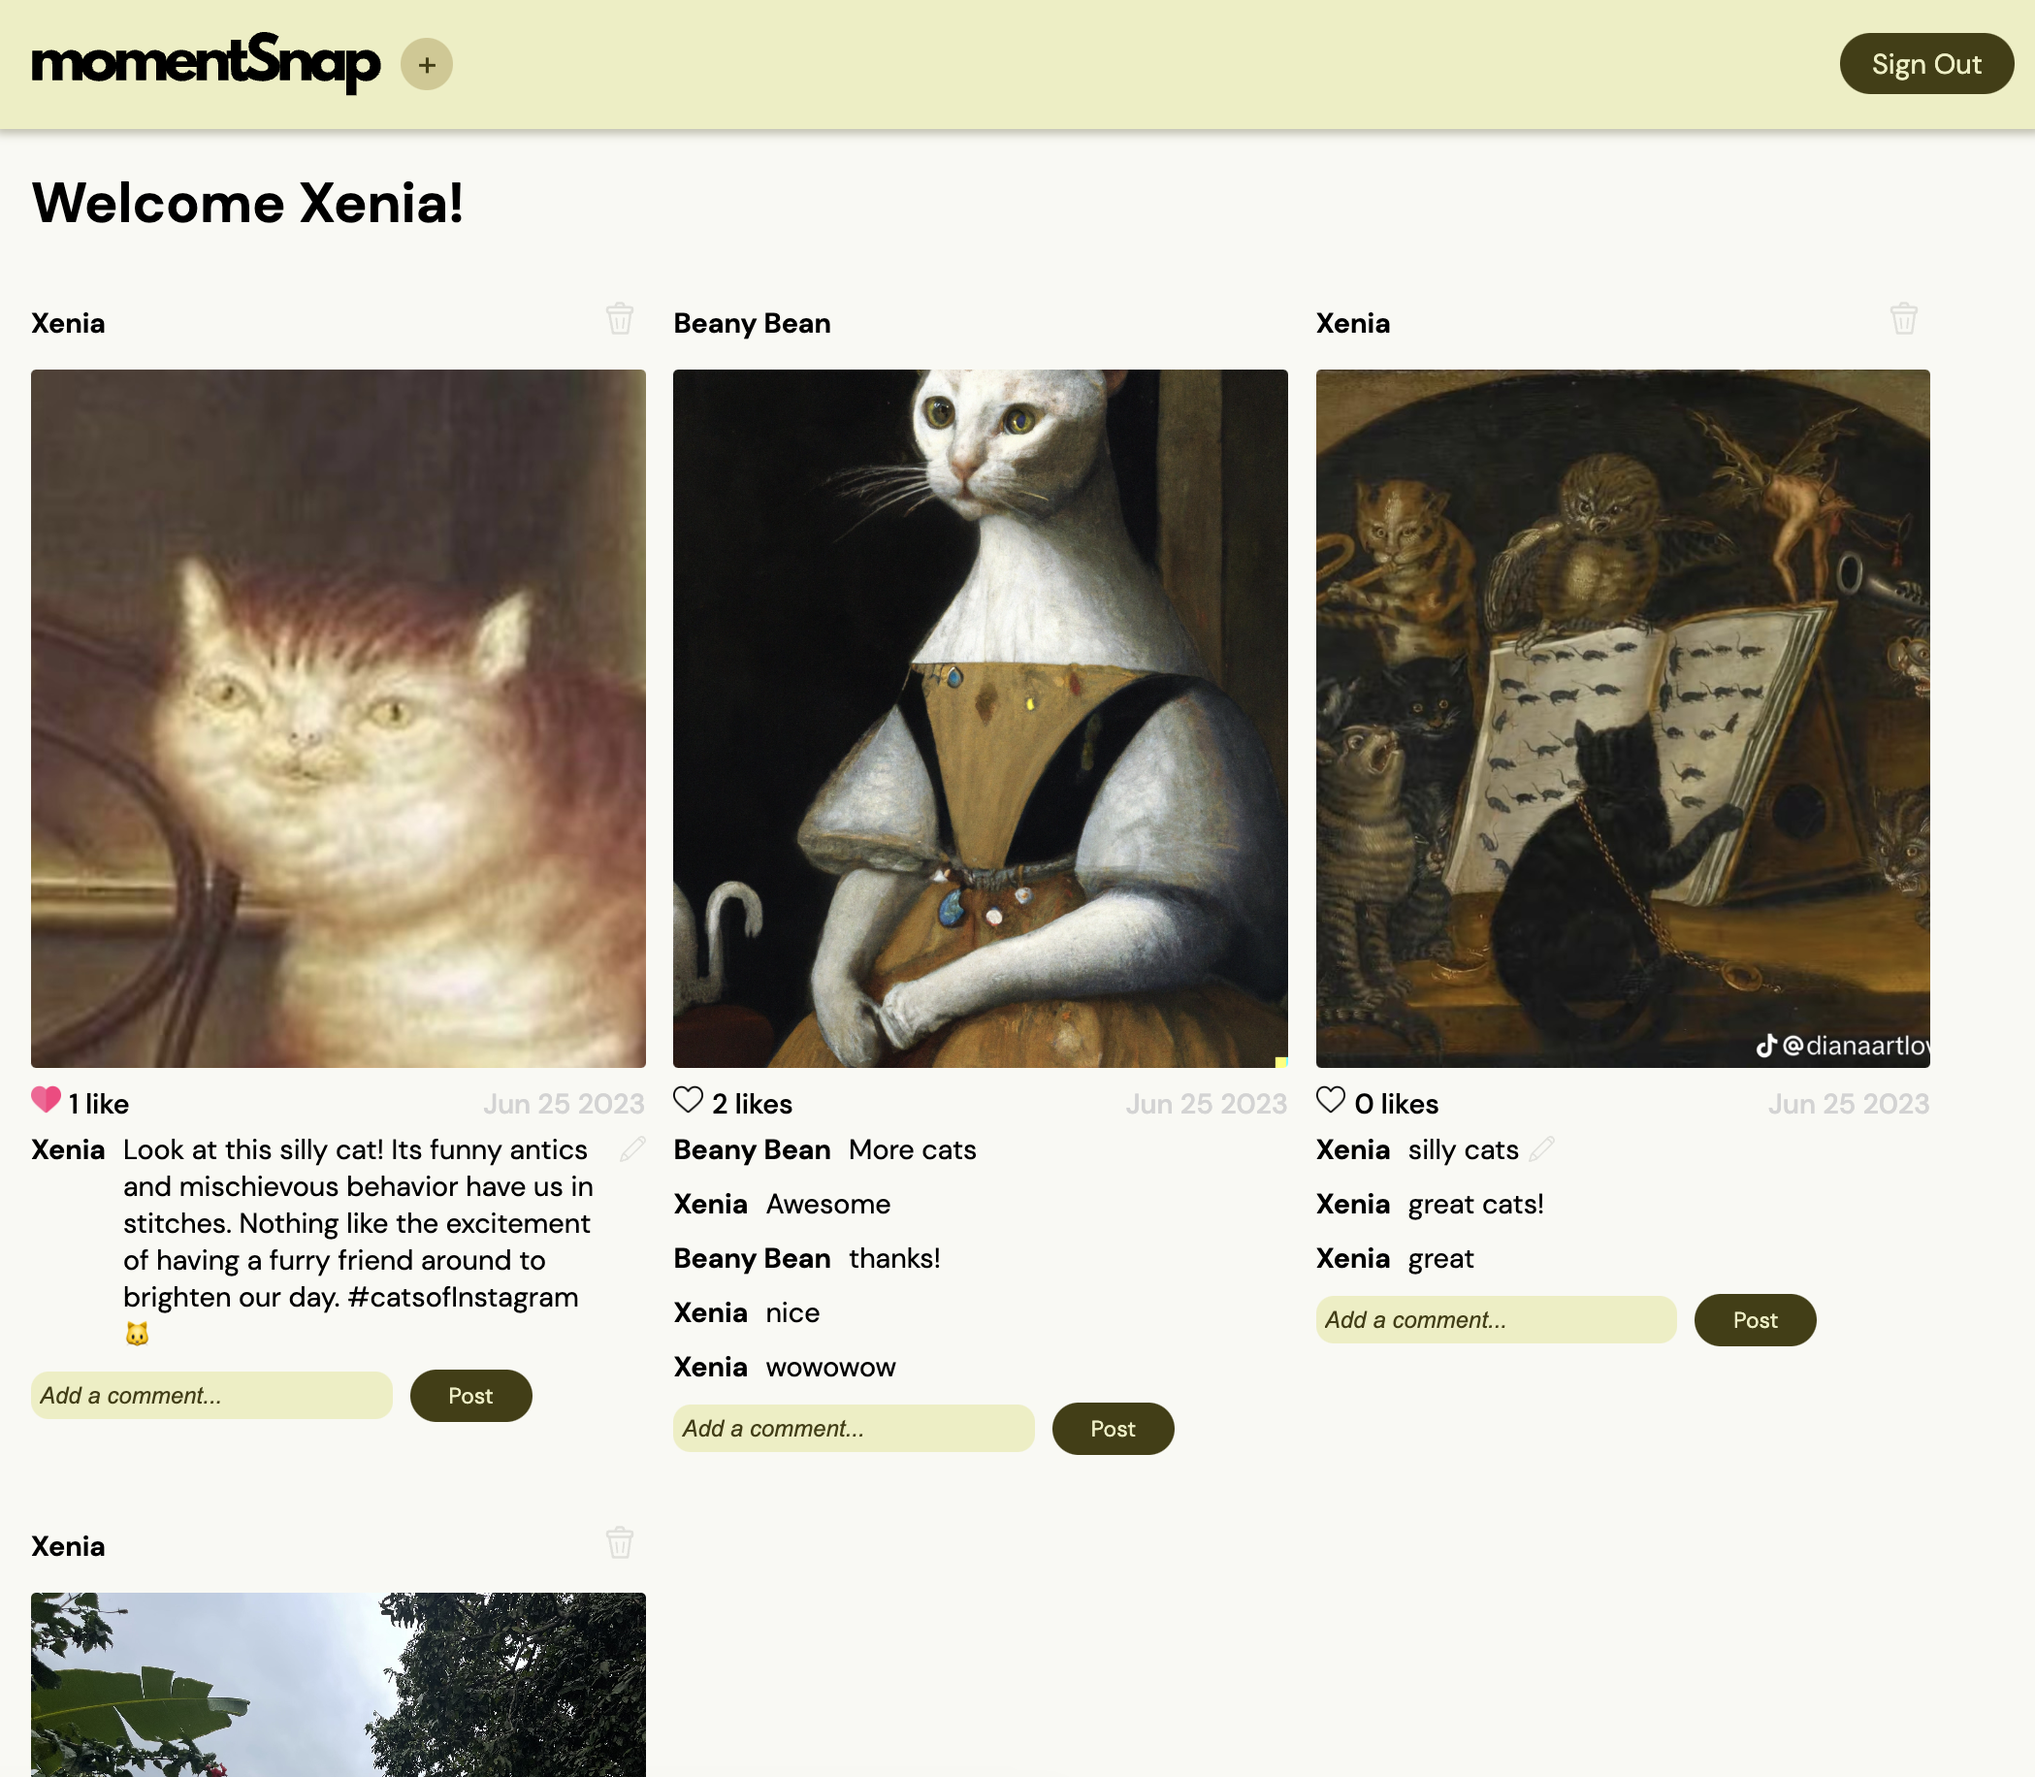
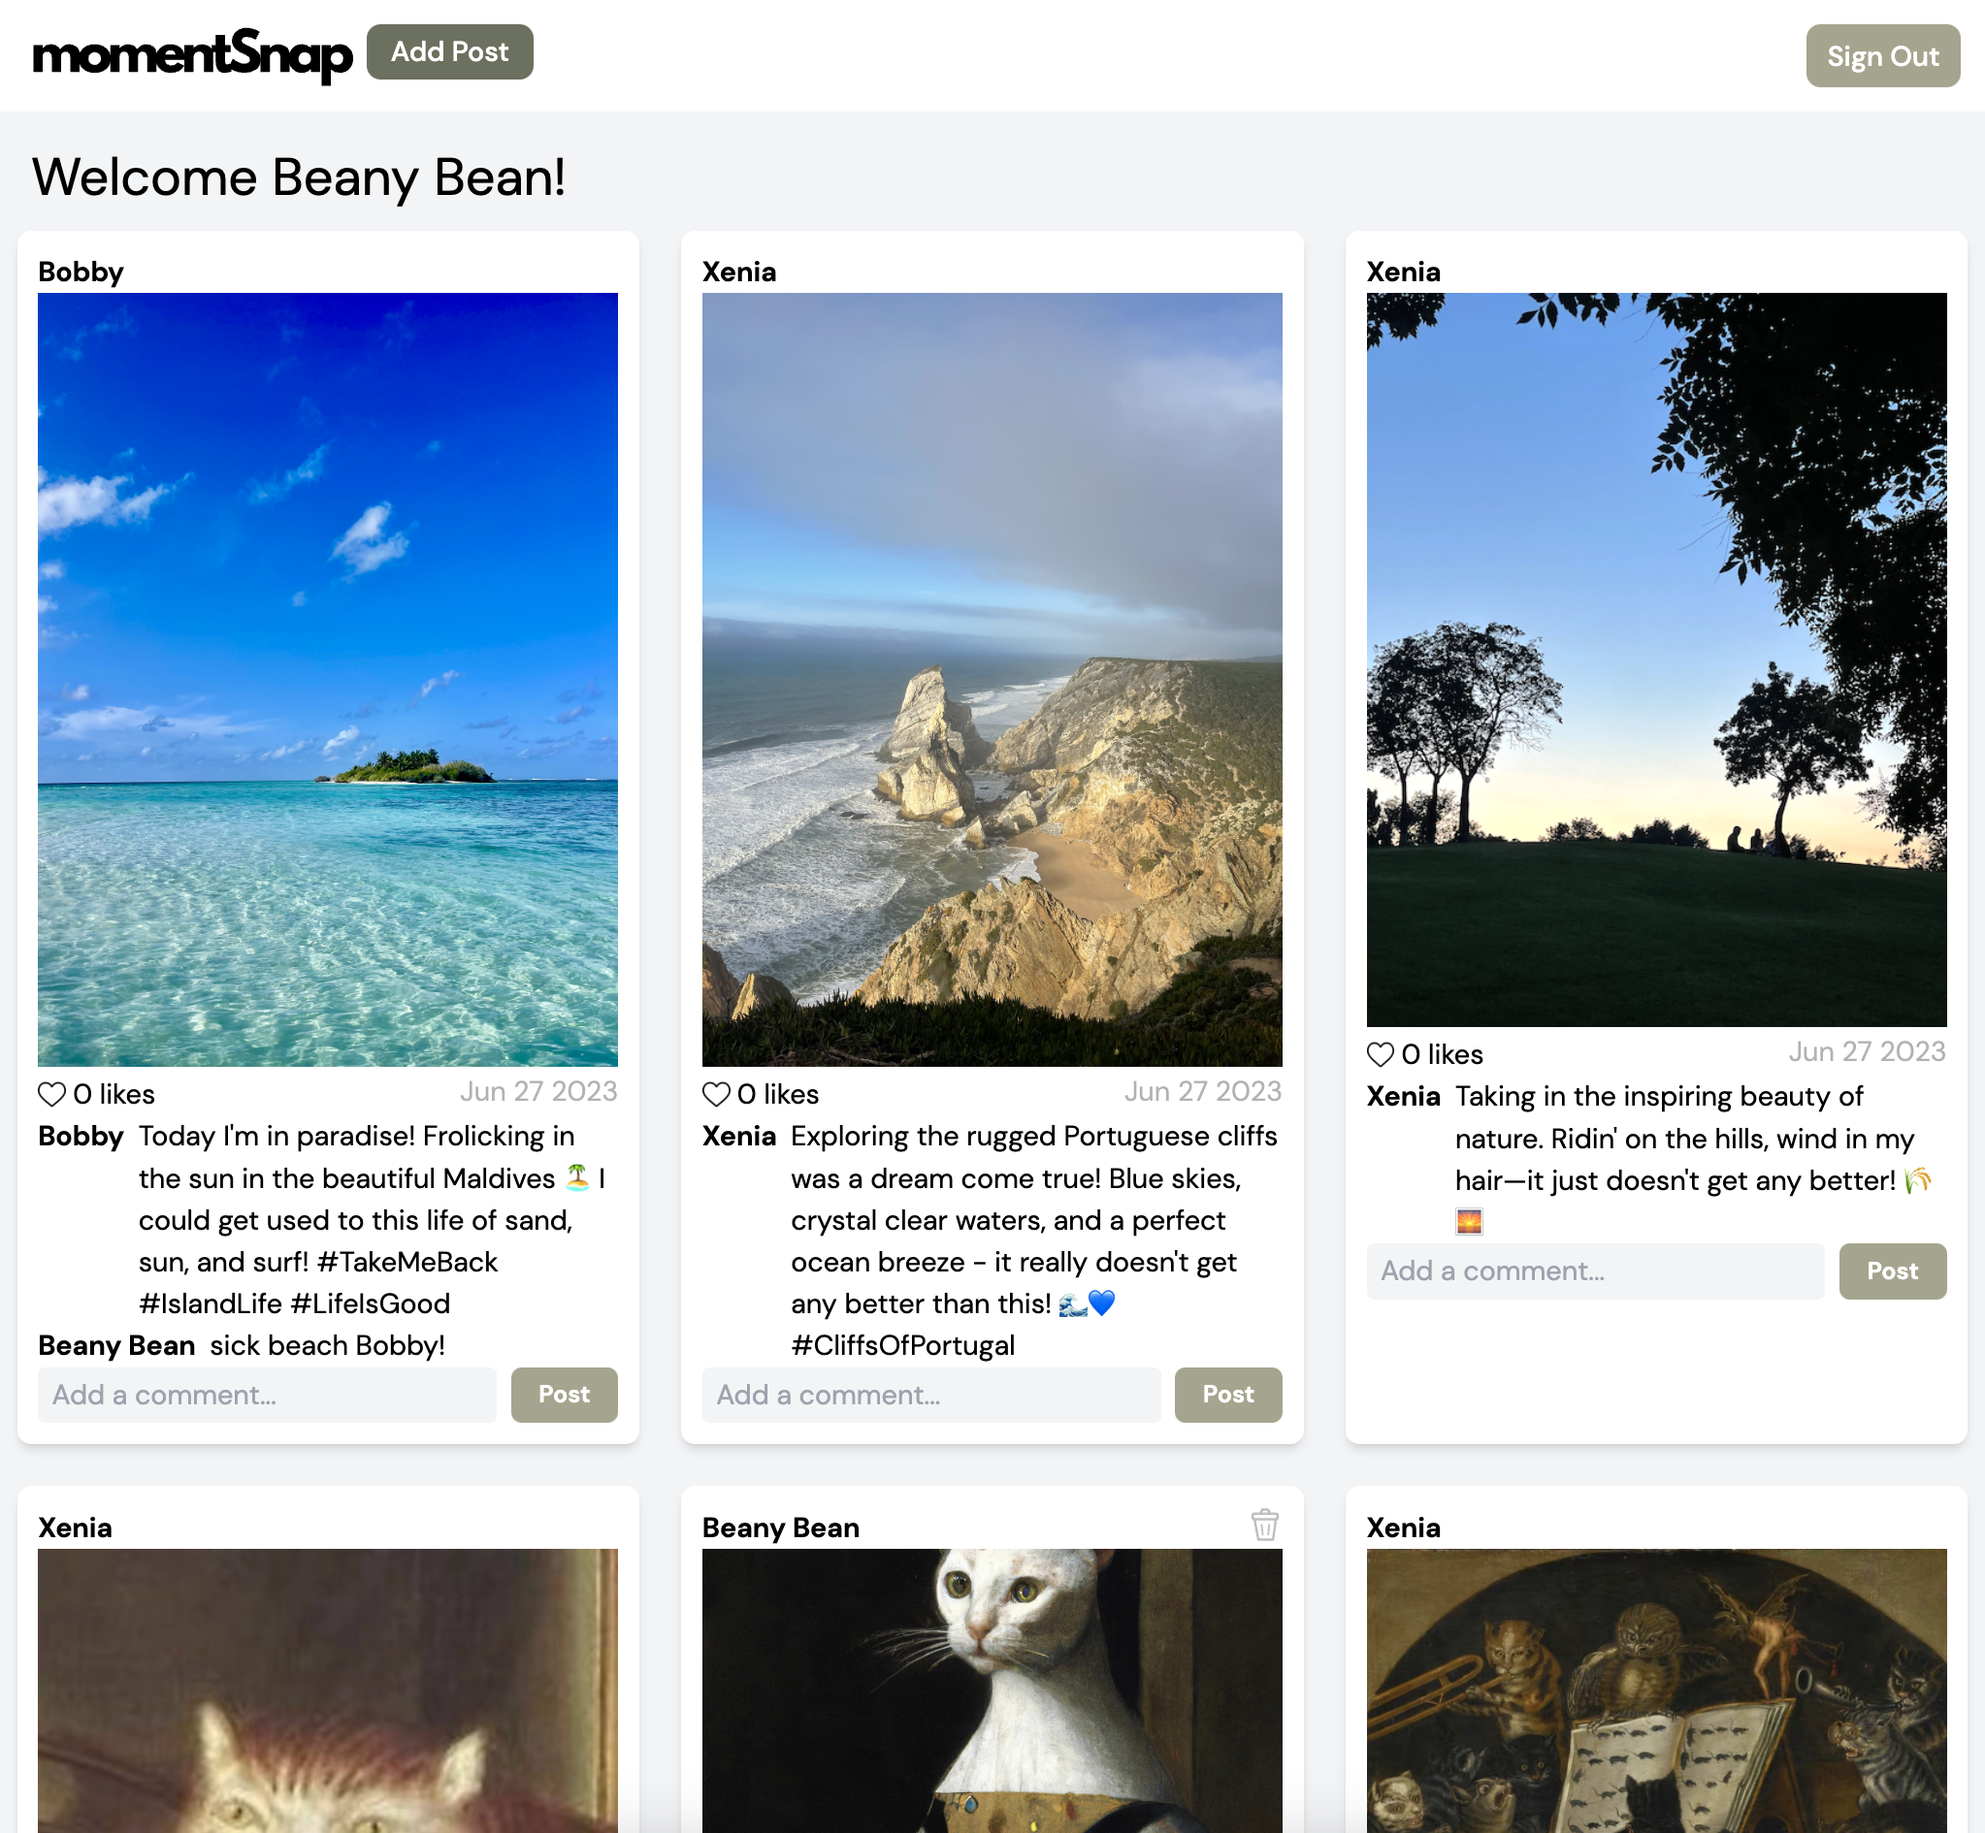
final tailwind touches and updated readme

diff --git a/src/components/Navbar.js b/src/components/Navbar.js
@@ -34,11 +34,11 @@ export default function Navbar() {
 
       {!auth.currentUser &&
         <Link to="/log-in">
-          <button className="auth--sign-in" >Log In or Sign Up</button>
+          <button className="auth--sign-in ring-offset-2 w-auto px-3 py-2 ml-1 text-white hover:opacity-90 focus:outline-none focus:ring- bg-sage rounded-lg text-md font-medium leading-5" >Log In or Sign Up</button>
         </Link>
       }
 
-      {auth.currentUser && <button className="auth--sign-out" onClick={logout}>Sign Out</button> }
+      {auth.currentUser && <button className="auth--sign-out ring-offset-2 w-auto px-3 py-2 ml-1 text-white hover:opacity-90 focus:outline-none focus:ring- bg-sage rounded-lg text-md font-medium leading-5" onClick={logout}>Sign Out</button> }
 
     </div>
   )

diff --git a/src/components/AddComment.js b/src/components/AddComment.js
@@ -22,10 +22,10 @@ export default function AddComment({path}) {
     <div>
       {auth.currentUser &&
         <form className="comment--container flex" onSubmit={handleSubmitComment}>
-          <input className="comment--input rounded bg-gray-light pl-2" placeholder="Add a comment..." ref={name} />
+          <input className="comment--input rounded w-80 bg-gray-light pl-2" placeholder="Add a comment..." ref={name} />
           <div className="comment--btn-container ml-2">
            <button className="comment--submit-btn
-          pointer-events-auto mr-2 py-1 px-2
+          pointer-events-auto  py-1.5 px-4
           rounded-md border-0 text-sm font-semibold text-white bg-sage hover:opacity-90" type="submit">Post</button>
 
           </div>

diff --git a/src/components/Homepage.js b/src/components/Homepage.js
@@ -81,7 +81,7 @@ const Homepage = ({ getPostList, postList }) => {
                 <AddLike className="pr-4"path={`posts/${post.id}`}/>
                 {post.likes.length === 1 ? (<h3  className='post--likes pl-1'>{post.likes.length} like</h3>) : (<h3  className='post--likes pl-1'>{post.likes.length} likes</h3>)}
               </div>
-              <h3 className='post--dateCreated'>{getDateObject(post)}</h3>
+              <h3 className='post--dateCreated opacity-30'>{getDateObject(post)}</h3>
             </div>
             <div className='post--caption flex items-top'>
               <h3 className='post--username comment--pad font-bold pr-2 '  >{post.userName}</h3>

diff --git a/src/components/createPost.js b/src/components/createPost.js
@@ -103,8 +103,7 @@ const CreatePost = ({getPostList}) => {
 
             <button className='create--submit-btn ring-offset-2 w-32 text-white hover:opacity-90 focus:outline-none focus:ring- bg-sage-dark rounded-lg py-2.5 text-md font-medium leading-5' onClick={handleSubmitPost}>Submit post</button>
             <div className='create--loading'>
-            {activeUpload && <img className='create--loading' src={loadingSvg} alt='loading' />}
-
+            {activeUpload && <img className='create--loading pt-4' src={loadingSvg} alt='loading' />}
             </div>
           </div>
         }

diff --git a/README.md b/README.md
@@ -26,6 +26,8 @@ I used Google Lighthouse to run over my application to check its performance, ac
 <ul>
 <li>React</li>
 <li>React Router Dom</li>
+<li>Tailwind CSS</li>
+<li>Headless UI</li>
 <li>Firebase</li>
 <li>OpenAI API</li>
 <li>CSS</li>
@@ -35,6 +37,6 @@ I used Google Lighthouse to run over my application to check its performance, ac
 <h2>What I learned</h2>
 <ul>
 <li>I dived into the world of Google Firebase, exploring its authentication, storage, and Cloud Firestore features. I gained hands-on experience and developed a solid grasp of these technologies. </li>
-<li> Working with the OpenAI API to add a caption generator. I also explored fine-tuning to shape the AI model according to my needs.</li>
+<li> Working with the OpenAI API to add a caption generator. I also explored fine-tuning to shape the AI model according to my needs. Additionally, I used Tailwind CSS and Headless UI to create a better and more responsive interface.</li>
 
 </ul>
